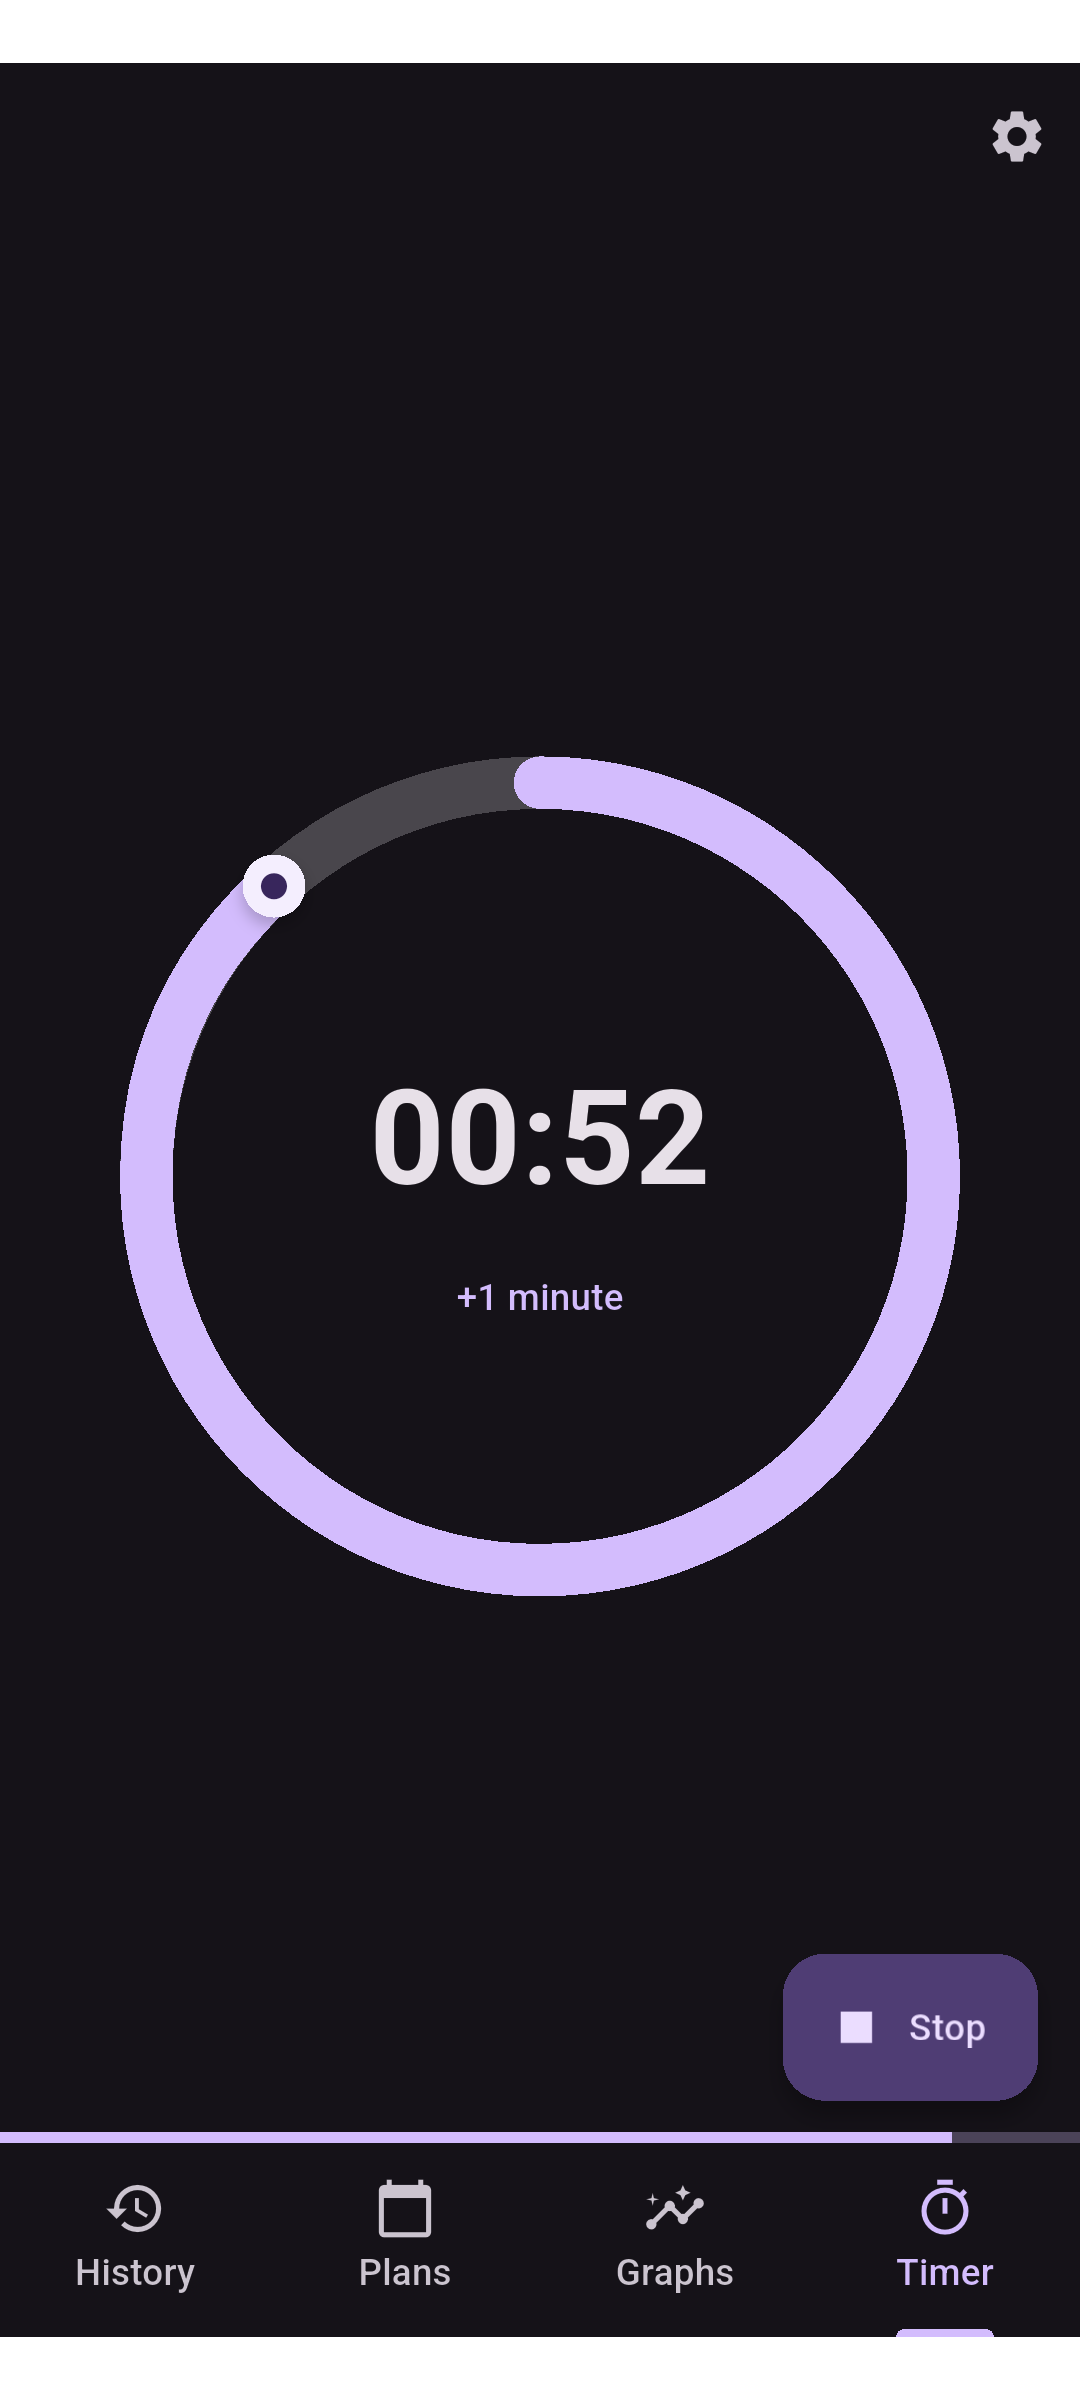
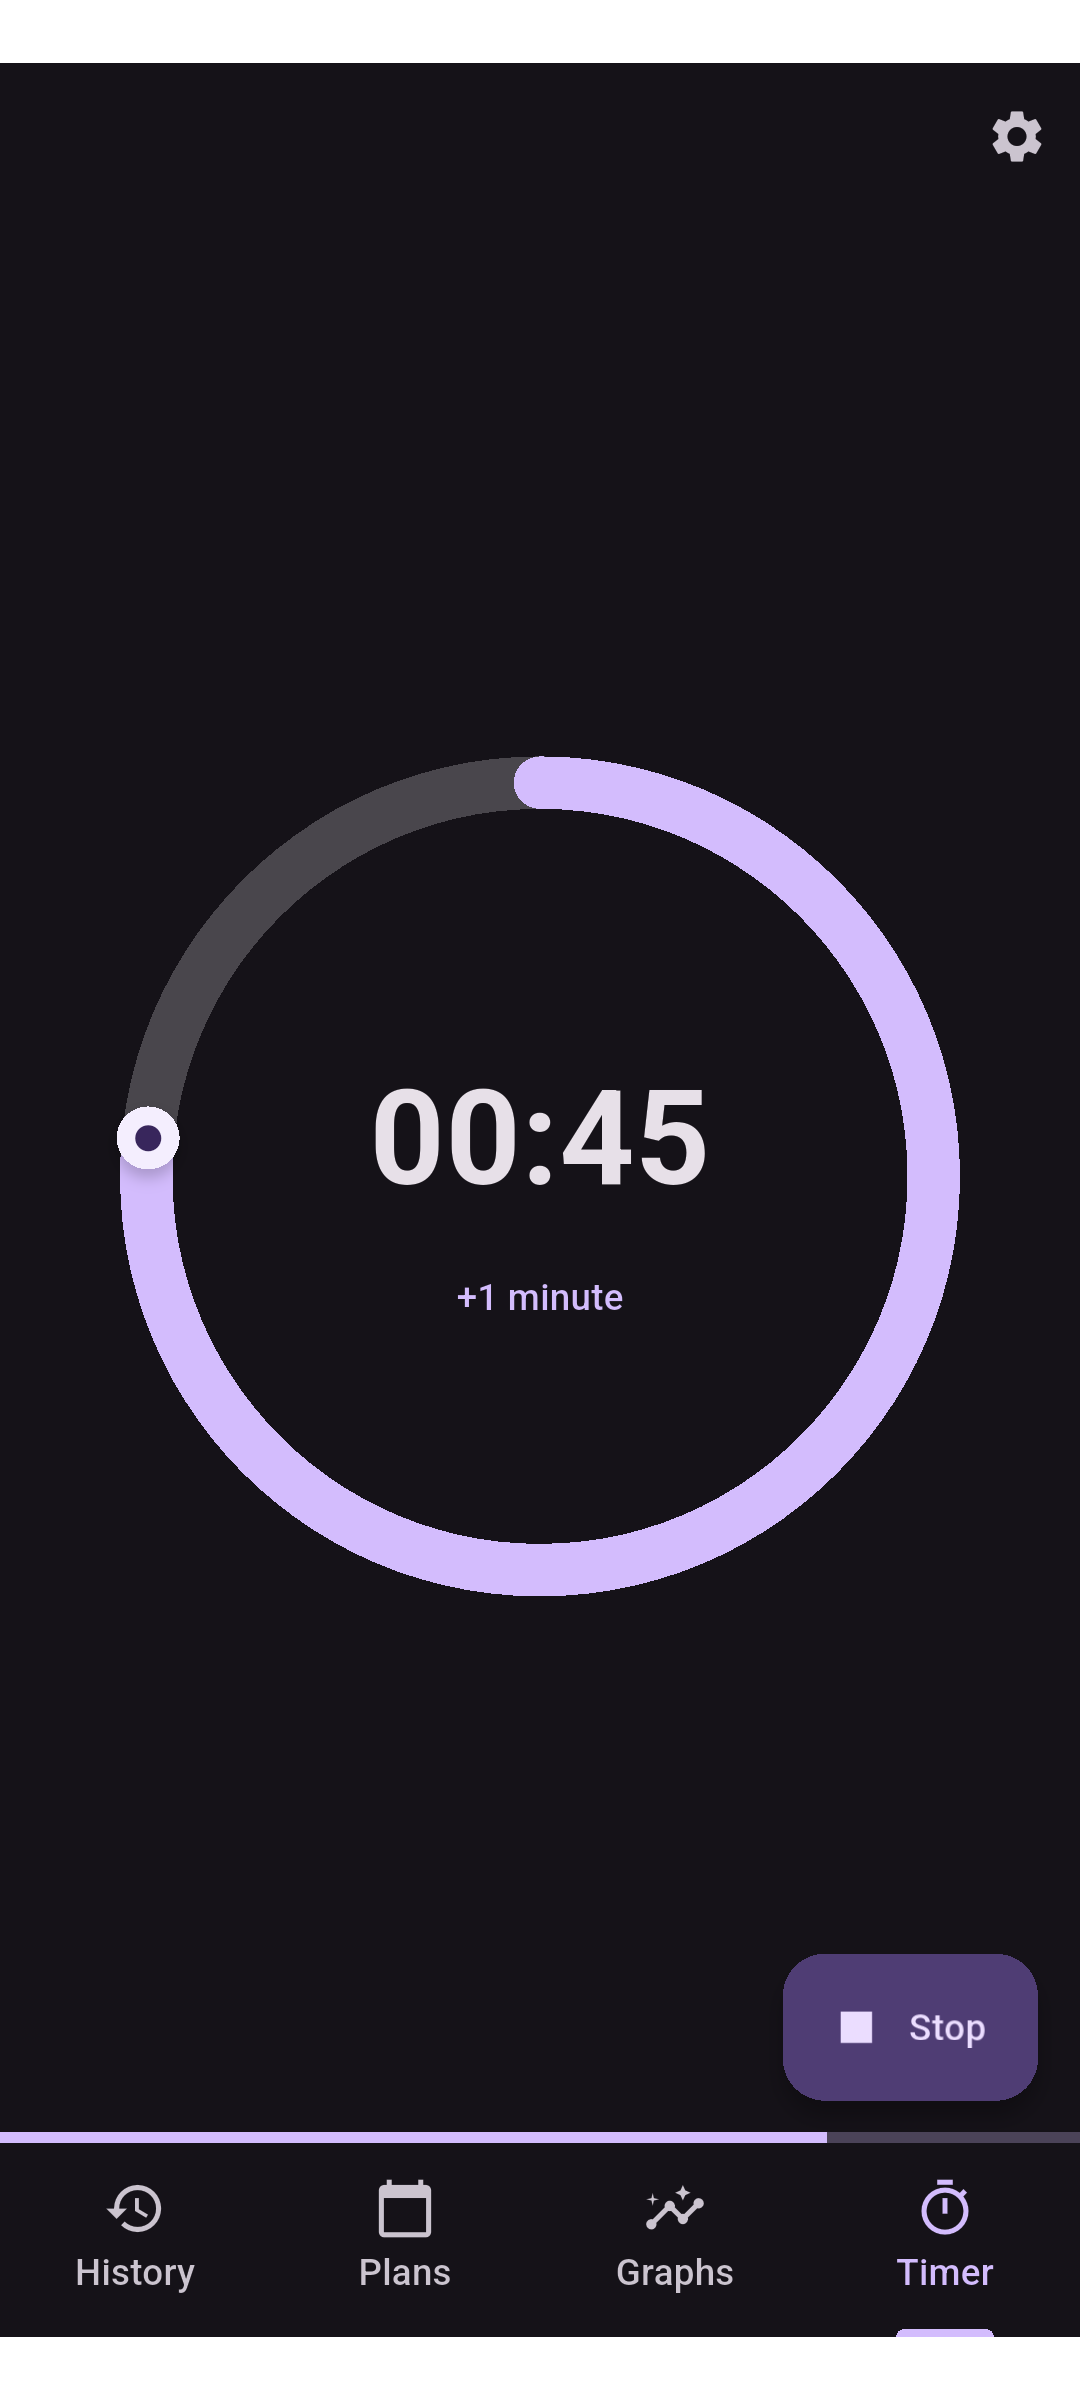
Fix timer page screenshot tests

Changed region(s): [[0.0917, 0.3438, 0.275, 0.5], [0.5194, 0.4375, 0.6722, 0.5], [0.7639, 0.875, 0.8861, 0.9062]]

diff --git a/lib/timer/timer_page.dart b/lib/timer/timer_page.dart
@@ -6,7 +6,10 @@ import 'package:flutter/material.dart';
 import 'package:provider/provider.dart';
 
 class TimerPage extends StatefulWidget {
-  const TimerPage({super.key});
+  final int? total;
+  final int? progress;
+
+  const TimerPage({super.key, this.total, this.progress});
 
   @override
   createState() => TimerPageState();
@@ -30,7 +33,11 @@ class TimerPageState extends State<TimerPage> {
       child: Navigator(
         key: navKey,
         onGenerateRoute: (settings) => MaterialPageRoute(
-          builder: (context) => _TimerPageWidget(timerState: timerState),
+          builder: (context) => _TimerPageWidget(
+            timerState: timerState,
+            total: widget.total,
+            progress: widget.progress,
+          ),
           settings: settings,
         ),
       ),
@@ -39,14 +46,22 @@ class TimerPageState extends State<TimerPage> {
 }
 
 class _TimerPageWidget extends StatelessWidget {
+  final TimerState timerState;
+  final int? total;
+  final int? progress;
+
   const _TimerPageWidget({
     required this.timerState,
+    this.total,
+    this.progress,
   });
-
-  final TimerState timerState;
 
   @override
   Widget build(BuildContext context) {
+    if (total != null && progress != null) {
+      timerState.setTimer(total!, progress!);
+    }
+
     return Scaffold(
       appBar: AppBar(
         actions: [

diff --git a/integration_test/screenshot_test.dart b/integration_test/screenshot_test.dart
@@ -204,7 +204,7 @@ GymSetsCompanion generateGymSetCompanion(
       weight: weight,
       unit: "kg",
       created: date ?? DateTime.now(),
-      category: Value("Arms"),
+      category: const Value("Arms"),
     );
 
 void main() {
@@ -254,7 +254,7 @@ void main() {
           await app.db.planExercises.insertOne(
             PlanExercisesCompanion.insert(
               enabled: true,
-              timers: Value(true),
+              timers: const Value(true),
               exercise: exercise,
               planId: id,
             ),
@@ -266,7 +266,7 @@ void main() {
           await app.db.planExercises.insertOne(
             PlanExercisesCompanion.insert(
               enabled: true,
-              timers: Value(true),
+              timers: const Value(true),
               exercise: exercise,
               planId: id,
             ),
@@ -407,7 +407,7 @@ void main() {
         screenshotName: '8_en-US',
         skipSettle: true,
         navigateToPage: (context) async {
-          await context.read<TimerState>().addOneMinute('', true);
+          context.read<TimerState>().setTimer(60, 7);
           await tester.pump();
           await tester.pump(const Duration(seconds: 7));
         },

diff --git a/lib/timer/timer_state.dart b/lib/timer/timer_state.dart
@@ -129,6 +129,16 @@ class TimerState extends ChangeNotifier {
     }
   }
 
+  void setTimer(int total, int progress) {
+    timer = NativeTimerWrapper(
+      Duration(seconds: total),
+      Duration(seconds: progress),
+      DateTime.now(),
+      NativeTimerState.running,
+    );
+    notifyListeners();
+  }
+
   void updateTimer(NativeTimerWrapper updated) {
     timer = updated;
     notifyListeners();
